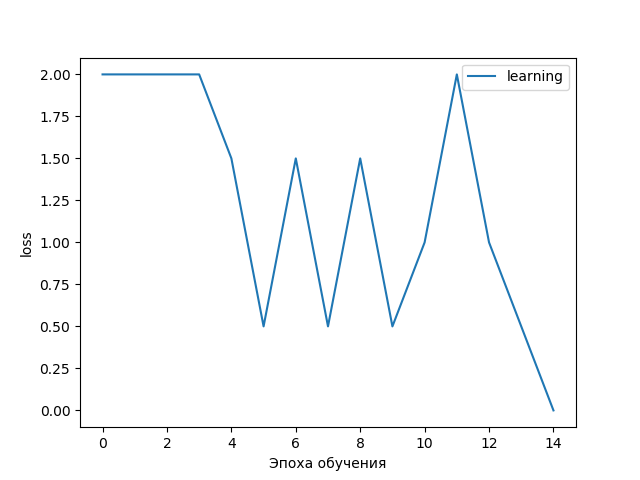
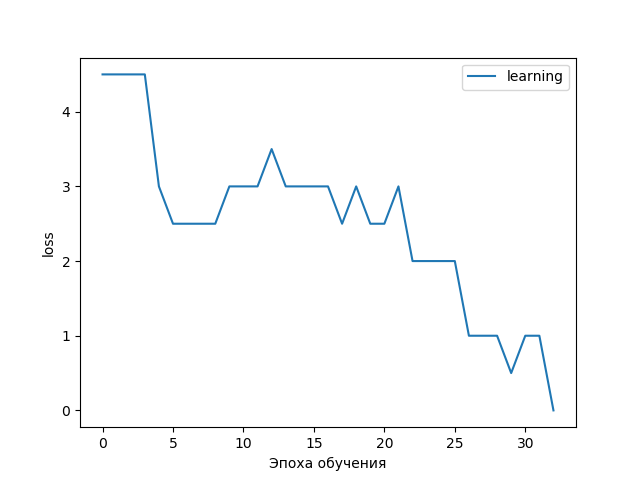
writed_loc_vm_some_bcs

diff --git a/app.py b/app.py
@@ -1,5 +1,5 @@
 """
-Некоторые пояснения к коду в desc.txt - например обозначения переменных 
+Некоторые пояснения к коду в desc.txt - например обозначения переменных
 """
 import serial
 import math
@@ -289,23 +289,28 @@ def main():
 
     train_inp_0 = [['Включи', (1, 0, 0, 0)],
                    ['Выключи', (0, 1, 0, 0)],
-                   ['лампу-1', (0, 0, 1, 0)],
+                   ['лампу-1', (1, 0, 0, 0)],
                    ['лампу-2', (0, 0, 0, 1)]
                    ]
-    train_inp = [train_inp_0[0][1], train_inp_0[2][1],
-                 train_inp_0[0][1], train_inp_0[3][1],
-                 train_inp_0[1][1], train_inp_0[2][1],
-                 train_inp_0[1][1], train_inp_0[2][1]
+    train_inp = [(train_inp_0[0][1], train_inp_0[2][1]),
+                 (train_inp_0[0][1], train_inp_0[3][1]),
+                 (train_inp_0[1][1], train_inp_0[2][1]),
+                 (train_inp_0[1][1], train_inp_0[2][1])
                  ]
+    train_inp = ((1, 0, 0, 0, 1, 0, 0, 0),
+                 (0, 1, 0, 0, 1, 0, 0, 0),
+                 (1, 0, 0, 0, 0, 0, 0, 1),
+                 (0, 1, 0, 0, 0, 0, 0, 1)
+                 )
     print('train_inp', train_inp)
 
     train_out = [['b_c', merge_2_vecs_to_needed_vec(FIND_FUNC_vec, num_2, 4)],
                  ['b_c', merge_2_vecs_to_needed_vec(FIND_FUNC_vec, num_3, 4)],
                  ['b_c', merge_2_vecs_to_needed_vec(FIND_FUNC_vec, num_0, 4)],
-                 ['b_c', merge_2_vecs_to_needed_vec(FIND_FUNC_vec, num_3, 4)]
+                 ['b_c', merge_2_vecs_to_needed_vec(FIND_FUNC_vec, num_1, 4)]
                  ]
     # новая ссылка
-    train_inp = make_hashed_elems_matr(train_inp)
+    # train_inp = make_hashed_elems_matr(train_inp)
     print('train_inp', train_inp)
     # print('train_out', train_inp)
 
@@ -315,13 +320,13 @@ def main():
     # Создаем обьект параметров сети
     nn_params = Nn_params()
     # Создаем слои
-    n = cr_lay(nn_params, 2, 3, TRESHOLD_FUNC, False, INIT_W_MY)
+    n = cr_lay(nn_params, 8, 3, TRESHOLD_FUNC, False, INIT_W_MY)
     n = cr_lay(nn_params, 3, 4, TRESHOLD_FUNC, False, INIT_W_MY)
 
     for ep in range(epochs):  # Кол-во повторений для обучения
         gl_e = 0
         for single_array_ind in range(len(train_inp)):
-            inputs = train_inp[single_array_ind][1]
+            inputs = train_inp[single_array_ind]
             print("inputs", inputs)
             output = feed_forwarding(nn_params, inputs)
 
@@ -355,7 +360,7 @@ def main():
 
     train_inp_n = len(train_inp)
     for single_array_ind in range(train_inp_n):
-        inputs = train_inp[single_array_ind][1]
+        inputs = train_inp[single_array_ind]
 
         output_2_layer = feed_forwarding(nn_params, inputs)
 
@@ -406,10 +411,14 @@ def vm(program):
             ip += 1
             arg = program[ip]
             # print("arg", arg)
-            if arg == 2:
-                print("Включаю лампу")
-            elif arg == 1:
-                print("Выключаю лампу")
+            if arg == 1:
+                print("Включаю лампу-1")
+            elif arg == 0:
+                print("Выключаю лампу-1")
+            elif arg == 3:
+                print("Включаю лампу-2")
+            elif arg == 2:
+                print("Выключаю лампу-2")
         else:
             print("Vm opcode unrecognized")
             return
@@ -435,7 +444,10 @@ def test(arg_exc='loc_vm'):
     if arg_exc == 'ard_vm':
         ser = serial.Serial(SERIAL_PORT, SERIAL_SPEED)
 
-    sents = {'включи лампу': (1, 1), 'выключи лампу': (1, 0)}
+    sents = {'Включи': [1, 0, 0, 0],
+             'Выключи': [0, 1, 0, 0],
+             'лампу-1': [1, 0, 0, 0],
+             'лампу-2': [0, 0, 0, 1]}
 
     loger = Logger()
     nn_params_new = Nn_params()
@@ -487,7 +499,8 @@ def test(arg_exc='loc_vm'):
             if vec is None:
                 print("Cmd unricognized")
                 sys.exit(1)
-            net_res = feed_forwarding(nn_params_new, vec)
+            vecs.extend(vec)
+            net_res = feed_forwarding(nn_params_new, vecs)
             vecs.append(net_res)
             print("vec", vec)
             op = calc_as_hash(net_res[0:2])

diff --git a/work_with_arr.py b/work_with_arr.py
@@ -75,10 +75,8 @@ def make_hashed_elems_matr(matrix):
   """  
   m = len(matrix)
   n = len(matrix[0])
-  print("matrix_s[0]", matrix[0])
 
   matrix_d = [0] * m
-#   n1 = len(matrix_s[0])
   for row in range(m):
     matrix_d[row] = list([0] * n)
 
@@ -88,9 +86,9 @@ def make_hashed_elems_matr(matrix):
           print('[row][elem]', matrix[row][elem])
           row_s = matrix[row][elem]
           hash_sum = calc_as_hash(row_s)
-          matrix_d[row][elem] = hash_sum
+          matrix_d[row][elem] = hash_sum / 10
 
   return matrix_d  
 
-matr=[[[0, 1],[1, 1]],[(0, 1), (0, 0)]]
-print(make_hashed_elems_matr(matr))    
+# matr=[[[0, 1],[1, 1]],[(0, 1), (0, 0)]]
+# print(make_hashed_elems_matr(matr))    
